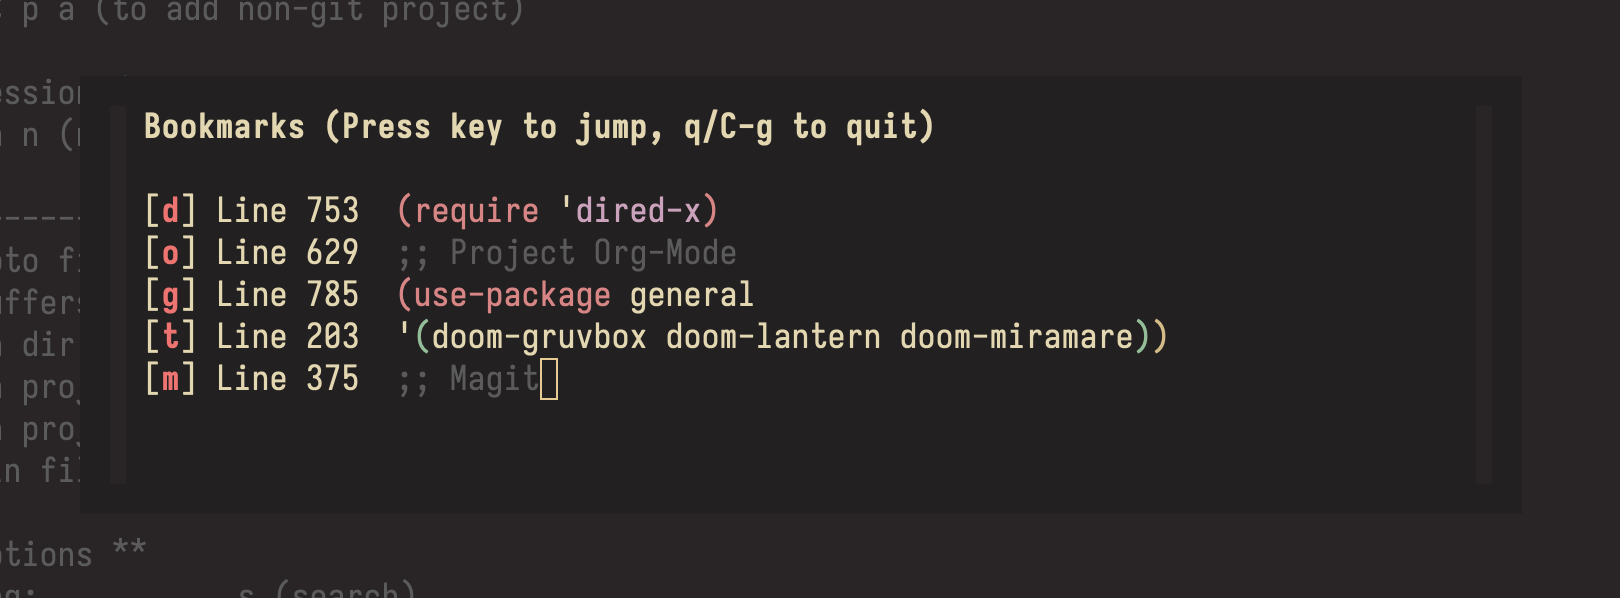
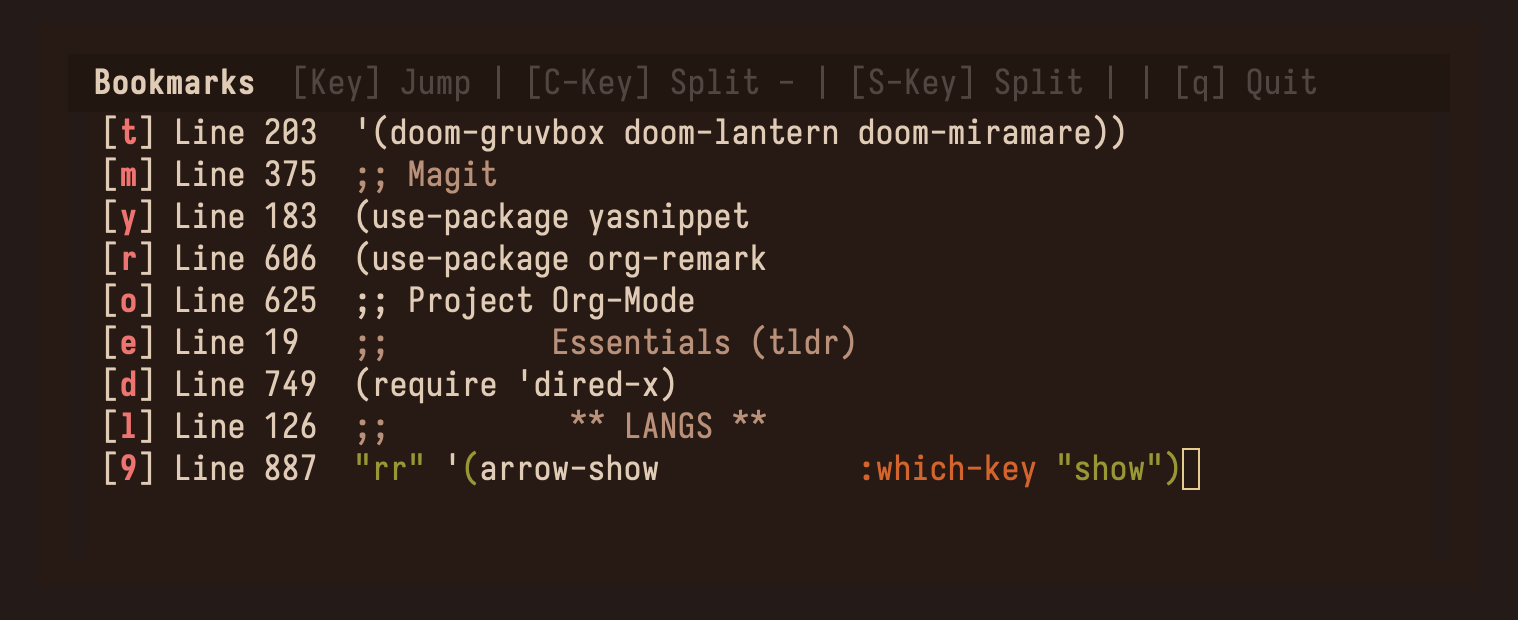
added horizontal & vertical open, fixed shift key bug

diff --git a/README.md b/README.md
@@ -77,12 +77,15 @@ Use these when you've confidently memorized your marks.
 
 #### Example keybinds
 ```elisp
+;; Buffer
 (define-key arrow-mode-map (kbd "C-c b a") #'arrow-add) ;; add line number mark
 (define-key arrow-mode-map (kbd "C-c b l") #'arrow-show) ;; show lines numbers
 (define-key arrow-mode-map (kbd "C-c b d") #'arrow-delete) ;; delete line number
 (define-key arrow-mode-map (kbd "C-c b j") #'arrow-jump-buffer) ;; jump to line (no UI)
 (define-key arrow-mode-map (kbd "C-c b n") #'arrow-next-line) ;; next line
 (define-key arrow-mode-map (kbd "C-c b p") #'arrow-prev-line) ;; previous line
+
+;; Project
 (define-key arrow-mode-map (kbd "C-c p a") #'arrow-project-add) ;; add project file mark
 (define-key arrow-mode-map (kbd "C-c p l") #'arrow-project-show) ;; show all files
 (define-key arrow-mode-map (kbd "C-c p d") #'arrow-project-delete) ;; delete file
